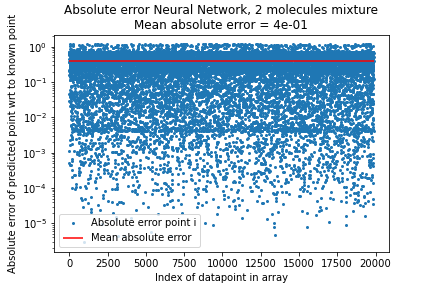
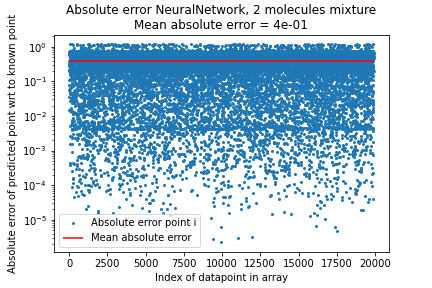
asd

diff --git a/SKLearn.py b/SKLearn.py
@@ -164,96 +164,65 @@ def Performance(name_model, amount_mols, rf_model, x_train, x_test, y_train, y_t
     f.close()
     return 0;
 
-def model_build_compile(fold_no,mol0,mol1,mol2,mol3,mol4,mol5,act0,act1,act2,act3,act4,act5,act6):
+def model_build_compile(no_mols):
+    #Determine the shape/length of the input vector once the model is compiled it can't be changed or you have to compile a new model
     shape_input_layer = no_mols*9+2
     
-    model = Sequential()
-    model.add(Dense(mol0, input_dim=shape_input_layer, activation= act0))
-    model.add(Dense(mol1, activation= act1))
-    model.add(Dense(mol2, activation= act2))
-    model.add(Dense(mol3, activation=act3))
-    model.add(Dense(mol4, activation= act4))
-    model.add(Dense(mol5, activation=act5))
-    model.add(Dense(no_mols, activation=act6))
-    
+    model = Sequential()#Determine type of model
+    model.add(Dense(50, input_dim=shape_input_layer, activation= "relu"))#For each layer determine it's activation function and amount of nodes
+    model.add(Dense(100, activation= "relu"))
+    model.add(Dense(150, activation= "relu"))
+    model.add(Dense(200, activation="relu"))
+    model.add(Dense(150, activation= "relu"))
+    model.add(Dense(100, activation="relu"))
+    model.add(Dense(no_mols, activation="relu"))
+    #Now compile the model and determine what it will try to minimize, here it is set to mean_square_error
+    #Adam is a learning optimizer specifically build for neural networks
+    #Metric functions are similar to loss functions, except that the results from evaluating a metric are not used when training the model. Note that you may use any loss function as a metric.
     model.compile(loss= "mean_squared_error" , optimizer="adam", metrics=["accuracy"])
     print('-----------------------------------------------')
-    print(f'Training for fold {fold_no}')
+    print(f'Training')
     start = time.time()
-    model.fit(x_train, y_train, epochs=15)
+    #fit is used to train the model, epochs is the number of iterations it will use the dataset
+    model.fit(x_train, y_train, epochs=1)
     end = time.time()
     print("Model training took: ",end-start,"[sec]")
     scores = model.evaluate(x_test,y_test,verbose=0)
-    print(f'Score for fold {fold_no}: {model.metrics_names[0]} of {scores[0]}; {model.metrics_names[1]} of {scores[1]*100}%')
-    acc_per_fold.append(scores[1]*100)
-    loss_per_fold.append(scores[0])
+    print(f'Score: {model.metrics_names[0]} of {scores[0]}; {model.metrics_names[1]} of {scores[1]*100}%')
+    #acc_per_fold.append(scores[1]*100)
+    #loss_per_fold.append(scores[0])
     
-    fold_no = fold_no + 1
-    return model
 
-def cross_validation(model, x_train, y_train, splits=5):
-    kf = KFold(n_splits = splits)
+    return model
 
 def save_model(model, no_mols):
     dump(model, 'model_'+str(no_mols))
 def load_model(no_mols):
     return load('model_'+str(no_mols))
+
+#How many molecules in this combination
 no_mols=2
 
 #making database of molecules representation
 selfies_database = ML_database()
 easy_database = simple_database()
 #getting IAST combined with the molecule representaion
-x_data, y_data = make_IAST_database_Wessel_version(easy_database,no_mols)
-x_train, x_test, y_train, y_test = train_test_split(x_data,y_data,test_size= 0.2)
-
-acc_per_fold = []
-loss_per_fold = []
-
-kfold = KFold(n_splits=5, shuffle=True)
-
-fold_no=1
-''' 
-for train, test in kfold.split(x_data,y_data):
-'''
-
-#save_model(NN, no_mols)
-#NN = load_model(no_mols)
-'''
-print('--------------------------------')
-print('Score per fold')
-for i in range(0,len(acc_per_fold)):
-  print('------------------------------------------------------------------------')
-  print(f'> Fold {i+1} - Loss: {loss_per_fold[i]} - Accuracy: {acc_per_fold[i]}%')
-print('------------------------------------------------------------------------')
-print('Average scores for all folds:')
-print(f'> Accuracy: {np.mean(acc_per_fold)} (+- {np.std(acc_per_fold)})')
-print(f'> Loss: {np.mean(loss_per_fold)}')
-print('------------------------------------------------------------------------')
-
-'''
+x_data, y_data = make_IAST_database_Wessel_version(easy_database,no_mols)#Make database
+x_train, x_test, y_train, y_test = train_test_split(x_data,y_data,test_size= 0.2)#Split into test and train
 
 
-#model = load('model_'+str(no_mols))
-act_lst = ['sigmoid','relu']
-no_nodes = [10,50,100,150,200]
-for node_0 in no_nodes:
-    for node_1 in no_nodes:
-        for node_2 in no_nodes:
-            for node_3 in no_nodes:
-                for node_4 in no_nodes:
-                    for node_5 in no_nodes:
-                        for act0 in act_lst:
-                            for act1 in act_lst:
-                                for act2 in act_lst:
-                                    for act3 in act_lst:
-                                        for act3 in act_lst:
-                                            for act4 in act_lst:
-                                                for act5 in act_lst:
-                                                    for act6 in act_lst:
-                                                        NN = model_build_compile(fold_no,node_0,node_1,node_2,node_3,node_4,node_5,act0,act1,act2,act3,act4,act5,act6)
-                                                        name = "NN:"+str(node_0)+str(node_1)+str(node_2)+str(node_3)+str(node_4)+str(node_5)+str(act0)+str(act1)+str(act2)+str(act3)+str(act4)+str(act5)+str(act6)
-                                                        Performance(name , no_mols, NN , x_train, x_test, y_train, y_test)
+NN = model_build_compile(no_mols)#Actually build the model
+
+
+save_model(NN, no_mols)
+#NN = load_model(no_mols) #Load model instead of training
+
+
+
+
+
+
+Performance("NeuralNetwork" , no_mols, NN , x_train, x_test, y_train, y_test)
                                                     
                                         
 

diff --git a/NeuralNetwork.py b/NeuralNetwork.py
@@ -31,13 +31,6 @@ def plot_loss(history):
     plt.legend()
     plt.grid(True)
 
-def plot_horsepower(x,y):
-    plt.figure()
-    plt.scatter(train_features['Horsepower'], train_labels, label='Data')
-    plt.plot(x, y, color = 'k', label='Predictions')
-    plt.xlabel('Horsepower')
-    plt.ylabel('MPG')
-    plt.legend()
 
 def build_and_compile_model(no_mols):
     shape_input_layer = no_mols*9 +2
@@ -249,34 +242,8 @@ plot_loss(history)
 dnn.save('dnn_model_'+str(no_mols)+'_mols')
 '''
 
-#print(f"Ive started loading the model at {datetime.now()}")
-#starttime = time.time()
-dnn = keras.models.load_model('dnn_model_'+str(no_mols)+'_mols')
-#print(f'Loading took {starttime-time.time()}[sec]')
-#test_predictions = dnn.predict(test_features)
 
-'''
-a = plt.axes(aspect='equal')
-plt.figure()
-plt.scatter(test_labels, test_predictions)
-plt.xlabel('True Values [Fractions]')
-plt.ylabel('Predictions [Fractions]')
-lims = [0, 50]
-plt.xlim(lims)
-plt.ylim(lims)
-_ = plt.plot(lims, lims)
-plt.show()
-
-plt.figure()
-error = test_predictions - test_labels
-plt.hist(error, bins=25)
-plt.xlabel('Prediction Error [Fractions]')
-_ = plt.ylabel('Count')
-plt.show()
-
-test_results = dnn.evaluate(test_features, test_labels, verbose=0)
-'''
-
+#dnn = keras.models.load_model('dnn_model_'+str(no_mols)+'_mols')
 
 
 #https://www.youtube.com/watch?v=K03Uve6fgFM&ab_channel=CodingLikeMad
